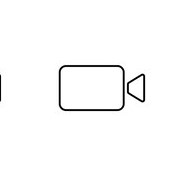
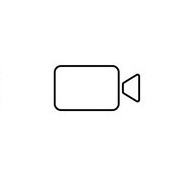
Change navbar in styles.css

Changed region(s): [[0.2732, 0.339, 0.7923, 0.6497], [0.0, 0.4237, 0.0273, 0.565]]

diff --git a/index.html b/index.html
@@ -13,19 +13,18 @@
             <img id="menu" src="images/menu.jpg" alt="">
             <img id="ytube" src="images/youtube.jpg" alt="">
         </div>
-        <div class="second-item">
-            <p>Search</p>
-            <input type="image" src="images/search-icon.png">
-            <input type="image" src="images/unmute.png">
+        <p>Search</p>
+        <div class="second-item"> 
+            <input id="search" type="image" src="images/search-icon.png">
+            <input id="unmute" type="image" src="images/unmute.png">
         </div>
         <div class="last-item">
-            <input type="image" src="images/video-camera.jpg">
-            <input type="image" src="images/notification-bell.jpg">
-            <input type="image" src="images/Picture1.png">
+            <input id="video" type="image" src="images/video-camera.jpg">
+            <input id="bell" type="image" src="images/notification-bell.jpg">
+            <input id="picture" type="image" src="images/Picture1.png">
         </div>
-
-
     </div>
+
     
 </body>
 </html>

diff --git a/styles.css b/styles.css
@@ -1,0 +1,43 @@
+body {
+    background-color: gainsboro;
+}
+
+.navbar {
+    background-color: white;
+    display: flex;
+    justify-content: space-between;
+    align-items: center;
+    margin-top: 0%;
+}
+
+#menu {
+    height: auto;
+    width: 70px;
+}
+#ytube {
+    width: 135px;
+    height: 75px;
+}
+#search {
+    width: 25px;
+    height: 25px;
+}
+#unmute {
+    width: 40px;
+    height: 30px;
+}
+#video {
+    width: 50px;
+    height: auto;
+}
+#bell {
+    width: 40px;
+    height: auto;
+}
+#picture {
+    width: 40px;
+    height: auto;
+}
+p {
+
+}
